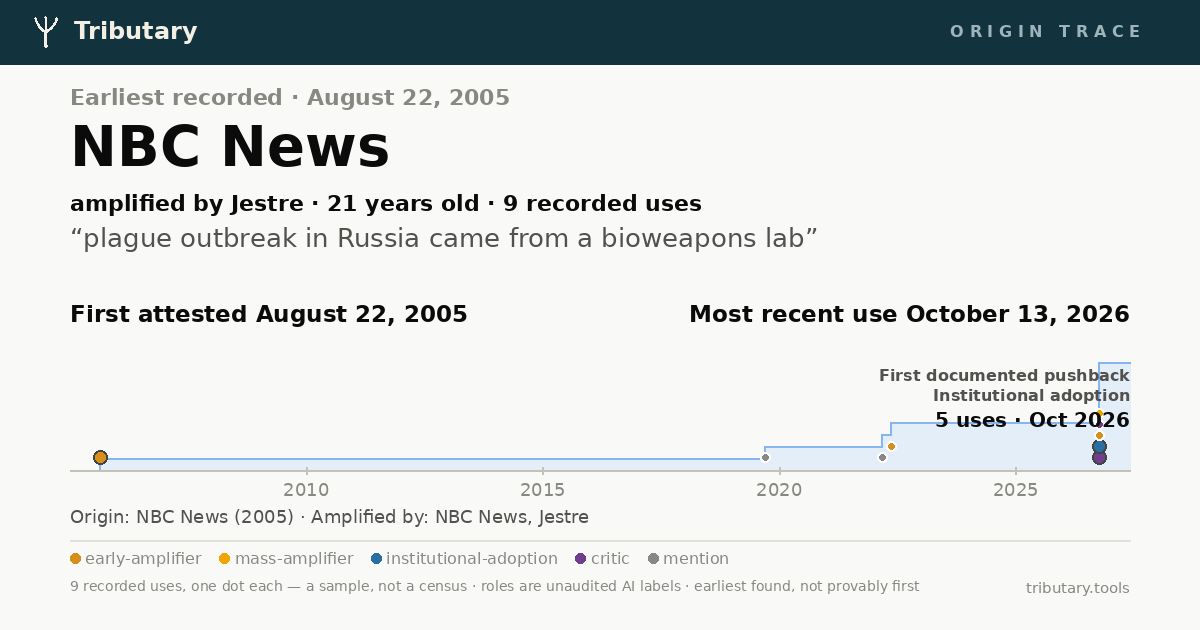
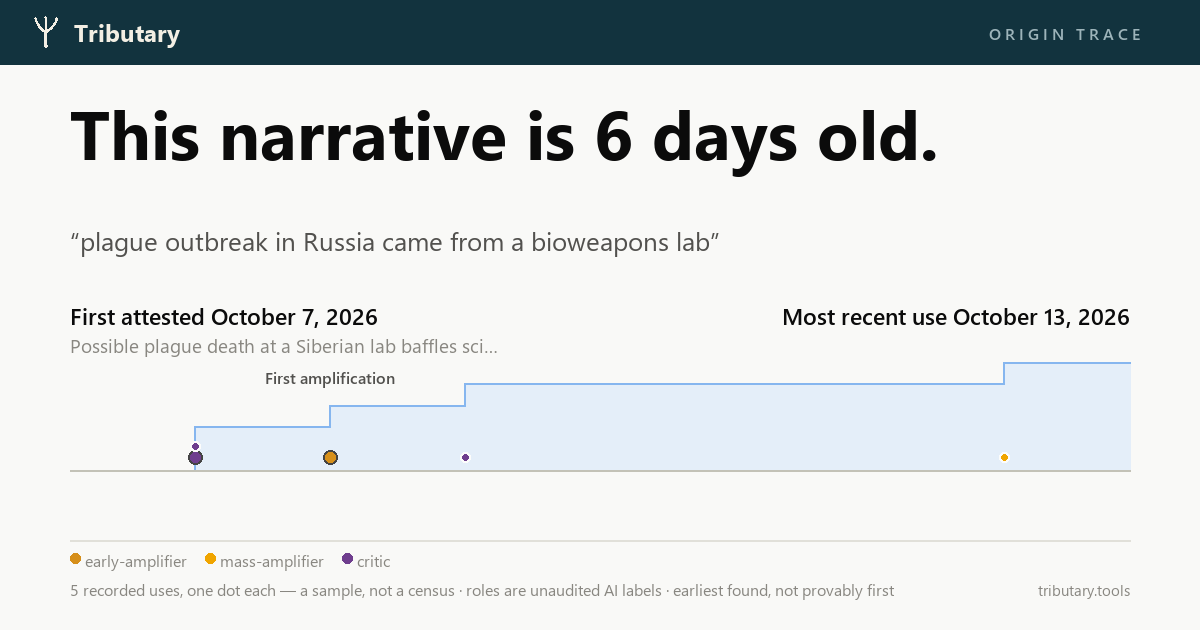
The bioweapons trace anchors on its actual referent: the October 2026 wave
The pipeline found the current event — five instances about the death
at Russia's anti-plague institute — then anchored the trace on a 2005
NBC piece and a 1979 Sverdlovsk-rooted idea chain, presenting the
Soviet-bioweapons tradition as this claim's lineage. Re-anchored on
the wave (phrasing Oct 7, idea Oct 12); the 1979-2023 scholarship
canon demoted to related-context precedents where it is excellent
context; one explainer's Mayo-class role fixed; the card goes from
'21 years old' to '6 days old'. Referent-bound refinement queued: a
referent can be implicit, resolved from the found instances.

diff --git a/gallery/cards/b01c2042080d.html b/gallery/cards/b01c2042080d.html
@@ -3,18 +3,18 @@
 <head>
 <meta charset="utf-8">
 <meta name="viewport" content="width=device-width, initial-scale=1">
-<title>Earliest recorded: NBC News — Tributary</title>
+<title>This narrative is 6 days old. — Tributary</title>
 <meta property="og:type" content="article">
 <meta property="og:site_name" content="Tributary">
-<meta property="og:title" content="NBC News — earliest recorded of “plague outbreak in Russia came from a bioweapons lab”">
-<meta property="og:description" content="Amplified by Jestre. “plague outbreak in Russia came from a bioweapons lab” — first attested August 22, 2005 (21 years old). 9 recorded uses. Every date and source has a receipt. AI-traced, not human-reviewed.">
+<meta property="og:title" content="This narrative is 6 days old.">
+<meta property="og:description" content="“plague outbreak in Russia came from a bioweapons lab” — first attested October 7, 2026 (6 days old). 5 recorded uses. Every date and source has a receipt. AI-traced, not human-reviewed.">
 <meta property="og:image" content="https://tributary.tools/gallery/cards/b01c2042080d.png">
 <meta property="og:image:width" content="1200">
 <meta property="og:image:height" content="630">
-<meta property="og:image:alt" content="Earliest recorded: NBC News. Timeline of 9 recorded uses from August 22, 2005 onward. “plague outbreak in Russia came from a bioweapons lab”">
+<meta property="og:image:alt" content="This narrative is 6 days old.. Timeline of 5 recorded uses from October 7, 2026 onward. “plague outbreak in Russia came from a bioweapons lab”">
 <meta property="og:url" content="https://tributary.tools/gallery/cards/b01c2042080d.html">
 <meta name="twitter:card" content="summary_large_image">
-<meta name="description" content="Amplified by Jestre. “plague outbreak in Russia came from a bioweapons lab” — first attested August 22, 2005 (21 years old). 9 recorded uses. Every date and source has a receipt. AI-traced, not human-reviewed.">
+<meta name="description" content="“plague outbreak in Russia came from a bioweapons lab” — first attested October 7, 2026 (6 days old). 5 recorded uses. Every date and source has a receipt. AI-traced, not human-reviewed.">
 <style>
   :root { color-scheme: light; }
   * { box-sizing: border-box; }
@@ -61,16 +61,16 @@
 <div class="wrap">
   <div class="card">
     <div class="kicker">Tributary · origin trace</div>
-    <div class="eyebrow">Earliest recorded · August 22, 2005</div>
-    <div class="headline">NBC News</div>
-    <p class="deck">amplified by Jestre · 21 years old · 9 recorded uses</p>
+    
+    <div class="headline">This narrative is 6 days old.</div>
+    <p class="deck">6 days old · 5 recorded uses</p>
     <p class="phrase">“plague outbreak in Russia came from a bioweapons lab”</p>
-    <svg viewBox="0 0 760 212" role="img" aria-label="Timeline of 9 recorded uses from August 22, 2005; Most recent use October 13, 2026"><style>.ms{font:600 15px system-ui;fill:#0b0b0b}.s{font:12.5px system-ui;fill:#898781}.t{font:11.5px system-ui;fill:#898781}.msl{font:600 11.5px system-ui;fill:#52514e}</style><polygon points="10.0,178.0 30.9,178.0 30.9,168.0 495.8,168.0 495.8,158.0 577.5,158.0 577.5,148.0 583.8,148.0 583.8,138.0 728.5,138.0 728.5,118.0 728.6,118.0 728.6,108.0 728.7,108.0 728.7,98.0 729.1,98.0 729.1,88.0 750.0,88.0 750.0,178.0" fill="#cde2fb" fill-opacity="0.55"/><polyline points="10.0,178.0 30.9,178.0 30.9,168.0 495.8,168.0 495.8,158.0 577.5,158.0 577.5,148.0 583.8,148.0 583.8,138.0 728.5,138.0 728.5,118.0 728.6,118.0 728.6,108.0 728.7,108.0 728.7,98.0 729.1,98.0 729.1,88.0 750.0,88.0" fill="none" stroke="#86b6ef" stroke-width="1.5"/><line x1="10" y1="178" x2="750" y2="178" stroke="#c3c2b7" stroke-width="1.5"/><line x1="174.9" y1="175" x2="174.9" y2="181" stroke="#c3c2b7"/><text x="174.9" y="195" text-anchor="middle" class="t">2010</text><line x1="340.0" y1="175" x2="340.0" y2="181" stroke="#c3c2b7"/><text x="340.0" y="195" text-anchor="middle" class="t">2015</text><line x1="505.1" y1="175" x2="505.1" y2="181" stroke="#c3c2b7"/><text x="505.1" y="195" text-anchor="middle" class="t">2020</text><line x1="670.2" y1="175" x2="670.2" y2="181" stroke="#c3c2b7"/><text x="670.2" y="195" text-anchor="middle" class="t">2025</text><circle cx="30.9" cy="165.0" r="6" fill="#d68f1a" stroke="#444444" stroke-width="1.5"><title>2005-08-22 · NBC News · early-amplifier</title></circle><circle cx="495.8" cy="165.0" r="4" fill="#888888" stroke="#fcfcfb" stroke-width="1.5"><title>2019-09-20 · mention</title></circle><circle cx="577.5" cy="165.0" r="4" fill="#888888" stroke="#fcfcfb" stroke-width="1.5"><title>2022-03-10 · Guy Faulconbridge, Mark Trevelyan · mention</title></circle><circle cx="583.8" cy="156.0" r="4" fill="#d68f1a" stroke="#fcfcfb" stroke-width="1.5"><title>2022-05-20 · Jestre · early-amplifier</title></circle><circle cx="728.5" cy="165.0" r="6" fill="#6f3e8e" stroke="#444444" stroke-width="1.5"><title>First documented pushback — 2026-10-07 · critic</title></circle><circle cx="728.5" cy="156.0" r="6" fill="#2a6fa3" stroke="#444444" stroke-width="1.5"><title>Institutional adoption — 2026-10-07 · institutional-adoption</title></circle><circle cx="728.6" cy="147.0" r="4" fill="#d68f1a" stroke="#fcfcfb" stroke-width="1.5"><title>2026-10-08 · early-amplifier</title></circle><circle cx="728.7" cy="138.0" r="4" fill="#6f3e8e" stroke="#fcfcfb" stroke-width="1.5"><title>2026-10-09 · critic</title></circle><circle cx="729.1" cy="129.0" r="4" fill="#f0a500" stroke="#fcfcfb" stroke-width="1.5"><title>2026-10-13 · mass-amplifier</title></circle><text x="672.5" y="58" text-anchor="middle" class="msl">First documented pushback</text><text x="681.8" y="74" text-anchor="middle" class="msl">Institutional adoption</text><text x="683.7" y="105.0" text-anchor="middle" style="font:600 13.5px system-ui" fill="#0b0b0b">5 uses · Oct 2026</text><text x="10" y="20" class="ms">First attested August 22, 2005</text><text x="10" y="38" class="s">NBC News</text><text x="750" y="20" text-anchor="end" class="ms">Most recent use October 13, 2026</text></svg>
-    <p class="who">Origin: NBC News (2005) · Amplified by: NBC News, Jestre</p>
-    <div class="legend"><span class="lg"><span class="lgdot" style="background:#d68f1a"></span>early-amplifier</span><span class="lg"><span class="lgdot" style="background:#f0a500"></span>mass-amplifier</span><span class="lg"><span class="lgdot" style="background:#2a6fa3"></span>institutional-adoption</span><span class="lg"><span class="lgdot" style="background:#6f3e8e"></span>critic</span><span class="lg"><span class="lgdot" style="background:#888888"></span>mention</span></div>
+    <svg viewBox="0 0 760 212" role="img" aria-label="Timeline of 5 recorded uses from October 7, 2026; Most recent use October 13, 2026"><style>.ms{font:600 15px system-ui;fill:#0b0b0b}.s{font:12.5px system-ui;fill:#898781}.t{font:11.5px system-ui;fill:#898781}.msl{font:600 11.5px system-ui;fill:#52514e}</style><polygon points="10.0,178.0 97.6,178.0 97.6,142.0 191.7,142.0 191.7,124.0 285.9,124.0 285.9,106.0 662.4,106.0 662.4,88.0 750.0,88.0 750.0,178.0" fill="#cde2fb" fill-opacity="0.55"/><polyline points="10.0,178.0 97.6,178.0 97.6,142.0 191.7,142.0 191.7,124.0 285.9,124.0 285.9,106.0 662.4,106.0 662.4,88.0 750.0,88.0" fill="none" stroke="#86b6ef" stroke-width="1.5"/><line x1="10" y1="178" x2="750" y2="178" stroke="#c3c2b7" stroke-width="1.5"/><circle cx="97.6" cy="165.0" r="6" fill="#6f3e8e" stroke="#444444" stroke-width="1.5"><title>2026-10-07 · critic</title></circle><circle cx="97.6" cy="156.0" r="4" fill="#6f3e8e" stroke="#fcfcfb" stroke-width="1.5"><title>2026-10-07 · critic</title></circle><circle cx="191.7" cy="165.0" r="6" fill="#d68f1a" stroke="#444444" stroke-width="1.5"><title>First amplification — 2026-10-08 · early-amplifier</title></circle><circle cx="285.9" cy="165.0" r="4" fill="#6f3e8e" stroke="#fcfcfb" stroke-width="1.5"><title>2026-10-09 · critic</title></circle><circle cx="662.4" cy="165.0" r="4" fill="#f0a500" stroke="#fcfcfb" stroke-width="1.5"><title>2026-10-13 · mass-amplifier</title></circle><text x="191.7" y="58" text-anchor="middle" class="msl">First amplification</text><text x="10" y="20" class="ms">First attested October 7, 2026</text><text x="10" y="38" class="s">Possible plague death at a Siberian lab baffles scie</text><text x="750" y="20" text-anchor="end" class="ms">Most recent use October 13, 2026</text></svg>
+    
+    <div class="legend"><span class="lg"><span class="lgdot" style="background:#d68f1a"></span>early-amplifier</span><span class="lg"><span class="lgdot" style="background:#f0a500"></span>mass-amplifier</span><span class="lg"><span class="lgdot" style="background:#6f3e8e"></span>critic</span></div>
     
     <div class="cardfoot">
-      <span>9 recorded uses · one dot each, colored by role — a sample, not a census · roles are unaudited AI labels · first attested August 22, 2005, the earliest we found</span>
+      <span>5 recorded uses · one dot each, colored by role — a sample, not a census · roles are unaudited AI labels · first attested October 7, 2026, the earliest we found</span>
       <span>AI-traced, not human-reviewed</span>
     </div>
   </div>
@@ -80,7 +80,7 @@
 
   <p class="honesty">
     This card is AI-generated and not yet human-reviewed. “First attested” is the earliest
-    use our search found — attestation confidence as recorded by the pipeline: 0.75 —
+    use our search found — attestation confidence as recorded by the pipeline: 0.93 —
     and an earlier one may exist. Dot order shows sequence, not influence, and the shaded area shows the share of recorded uses accumulated by each date — the tempo of our sample, not audience reach; hover any dot
     for its date, source, and role. Role labels (originator / amplifier / adoption /
     critic) are AI judgments that have not yet passed a human audit. The full trace

diff --git a/CORRECTIONS.md b/CORRECTIONS.md
@@ -40,6 +40,7 @@ These shaped the methodology and are disclosed in the same spirit:
 | 2026-09-24 | The in-page contribution flow, since it shipped (2026-09-13) | Every in-page contribution submission failed with a generic "upstream error": GitHub caps `repository_dispatch` payloads at **10 top-level properties** and the Worker sent 12 (13 after v2) — the relay was broken from day one and no submission ever reached intake | Payload restructured (routing fields top-level, the rest nested under `data`); workflow env mapping updated; verified by a real dispatch | The dispatch's failure status was checked but its response body (which names the limit precisely) was discarded, and the flow shipped "armed" without its end-to-end dry run — which sat as a standing blocker item precisely because it would have caught this. Found the day the dry run finally ran. Lesson: an untested integration is not "armed," and relay errors must surface their upstream reason. |
 | 2026-09-25 | Conceptual-lineage backfill of 8 lean traces (pre-publication audit; nothing shipped uncorrected) | At batch scale the two known diseases recurred: **six fiction/depiction works admitted as asserting entries** — a 1955 sci-fi story crowned *originator* of the moon-hoax idea, with Capricorn One, two mockumentaries, an Apple TV+ comedy, and *Gladiator* also asserting — and **12 unevidenced `originator` labels across 5 traces** (four on the Greenland-doctrine trace alone) | Fiction → related-context/mention with dated notes; originators demoted to the one evidenced coining per lineage (or none — a doctrine that evolved has no coiner); first-attested/status/stats re-derived. Post-fix: moon-hoax anchors on the 1969 contemporaneous skeptics with Kaysing (1976) sole originator; Roman-thumbs is single-origin at Gérôme's 1872 *Pollice Verso*, matching the scholarship | Same root as 2026-09-18: the ancestor-identity gate is absent from the adversarial pass's prompt, and "first documented" reads as "originated." Two traces (5G-COVID, cultural-appropriation) came through fully clean — the pipeline is right more often than not, but the audit-before-publish step remains load-bearing. Prompt fixes stay queued as one batch. |
 | 2026-09-30 | Four published traces in the local working tree (never pushed; the live site was never wrong) | cards.py's tap-through publish step still copied the builder-local fingerprints/ store OVER gallery/traces/ — reverting the moon-landing, Arctic, crypto, and decapitation traces to July versions without their September idea lineages. Any bare or --vs cards run re-triggered it | Copies now happen only when no published copy exists; gallery/ is the record and is never overwritten from the store. Proven by re-running the --vs path against a clean tree | Third instance of one disease: a builder-local source silently overwriting the published record (cards index 09-16, corpus index 09-25, now trace tap-through copies). Standing rule extracted: anything under gallery/ may only be written by flows that treat gallery/ as canonical. Caught by a pre-outreach review noticing unexplained working-tree modifications. |
+| 2026-10-13 | Published trace b01c2042080d ("plague outbreak in Russia came from a bioweapons lab", live ~1 day; caught by Tarek) | The trace anchored its phrasing at a 2005 NBC piece and its idea at the 1979 Sverdlovsk leak — presenting the Soviet-bioweapons tradition as this claim's lineage — while the claim's actual referent is the October 2026 death at Russia's anti-plague institute, which the pipeline HAD found (five current-wave instances, Oct 7–13) and then buried mid-log | Both lineages re-anchored on the current wave (phrasing: 2026-10-07; idea: the one same-referent rearticulation, 2026-10-12); the 1979–2023 chain — the Sverdlovsk/Biopreparat scholarship canon, Meselson through Alibek to Yeltsin's admission — demoted to related-context precedents with dated notes, where it is excellent context; one Mayo-class role fix (an explainer labeled institutional-adoption → critic); card re-rendered: "21 years old" → "6 days old" | The REFERENT BOUND gate's blind spot: a referent can be IMPLICIT — the claim was typed descriptively ("plague outbreak in Russia"), but every current instance concerns one specific incident, which makes it referent-specific in practice. Rule refinement queued for the next prompt batch with a fixture from this case: resolve the referent from the found instances; when the current wave concerns one incident, older same-form claims are precedents. |
 | 2026-10-12 | Published trace abd11e95d1c5 ("animals were abused during the filming of Milo and Otis", live ~1 day) | The idea lineage opened with Edison 1903 marked as *asserting* a claim about a 1986 film — logically impossible. All 21 conceptual entries (Edison's elephant, Ben-Hur 1925, *Charge of the Light Brigade* 1936, the AHA oversight era, *Heaven's Gate*) assert same-form claims about OTHER films or the oversight tradition generally; none concerns Milo and Otis. The lexical layer was correct throughout (single-origin, The Economist, Oct 1986) | All 21 entries → related-context with "Precedent:" evidence prefixes and dated notes; conceptual lineage honestly emptied (for a referent-specific claim with no same-referent rearticulation, the idea and the phrasing coincide); card re-rendered. The tradition STAYS on the page — the viewer gained a first-class "Tradition & precedents" section where it now reads as the genuinely illuminating history it is | Fifth identity-gate disease: REFERENT BOUND — nothing predating a named referent's existence, or not concerning it, can assert a claim about it; same-form claims about other referents are precedents. The flip side of instance≠thesis (where same-form-different-subject DOES assert, for claims without a proper-named referent — "the poorest billionaire" is a category slot, not a referent). Prompt rule + harness fixture added same day; the fixture guards both sides. |
 | 2026-10-11 | Published wealth-statistic trace 370061844a5f (live and listed ~1 day; its share card headlined "This idea is 159 years old") | The conceptual layer abstracted a specific 2026 statistic ("poorest California billionaire makes ~$300M/yr") into the broadest possible thesis ("extreme wealth concentration enables rapid accumulation") and then crowned Karl Marx's *Capital* (1867) its **single-origin at 0.92** — with the entry's own `lexical_form_seen` field recording that Marx asserts *different propositions* ("surplus value, primitive accumulation"). Six further doctrine works (Veblen, Keynes, Sweezy/Baran, Harrington, OWS, Hudson) also entered as asserting | Seven doctrine entries → related-context with dated notes; idea lineage re-anchored at the modern quantitative top-wealth measurement tradition (Atkinson 1971, `earliest-found`, 0.78); timeline stats re-derived from asserting entries (precedent: the moon-hoax correction); card re-rendered (159y → 55y) | A third identity-gate disease, sibling to fiction≠attestation and first-documented≠originator: **an instance of a tradition is not the tradition-founding doctrine**. The specific quantitative claim's nearest honest ancestor is the tradition making claims *of its form*, with deeper doctrine as context. Prompt gate queued in the role-prompt batch. Compounding factor: the claim was born on social media (requester saw it on X), which Tributary does not index — the empty phrasing lineage left a vacuum the over-reaching idea lineage filled; the viewer now explains the coverage boundary explicitly whenever the phrasing log is empty. |
 | 2026-10-01 | One published share card (vaccines-rebuttal trace 25a253481bed, live ~2 hours) | The first production cache-serve re-rendered the trace's share card on the CI runner, overwriting the published identity-styled card with a DejaVu-fallback-font render (the workflow ran `cards.py` on every request, serves included) — and broke the "a serve changes nothing" invariant with a pointless commit + deploy | Card and cards index restored from the pre-serve commit; the workflow now skips card rendering entirely when a request is served from the corpus | Fourth instance of the stale-source disease, new vector: a CI re-render is also a non-canonical source for a published artifact. The standing rule generalizes: on a serve path, NOTHING regenerates — the published record (trace, card, index) is served exactly as it stands. |
